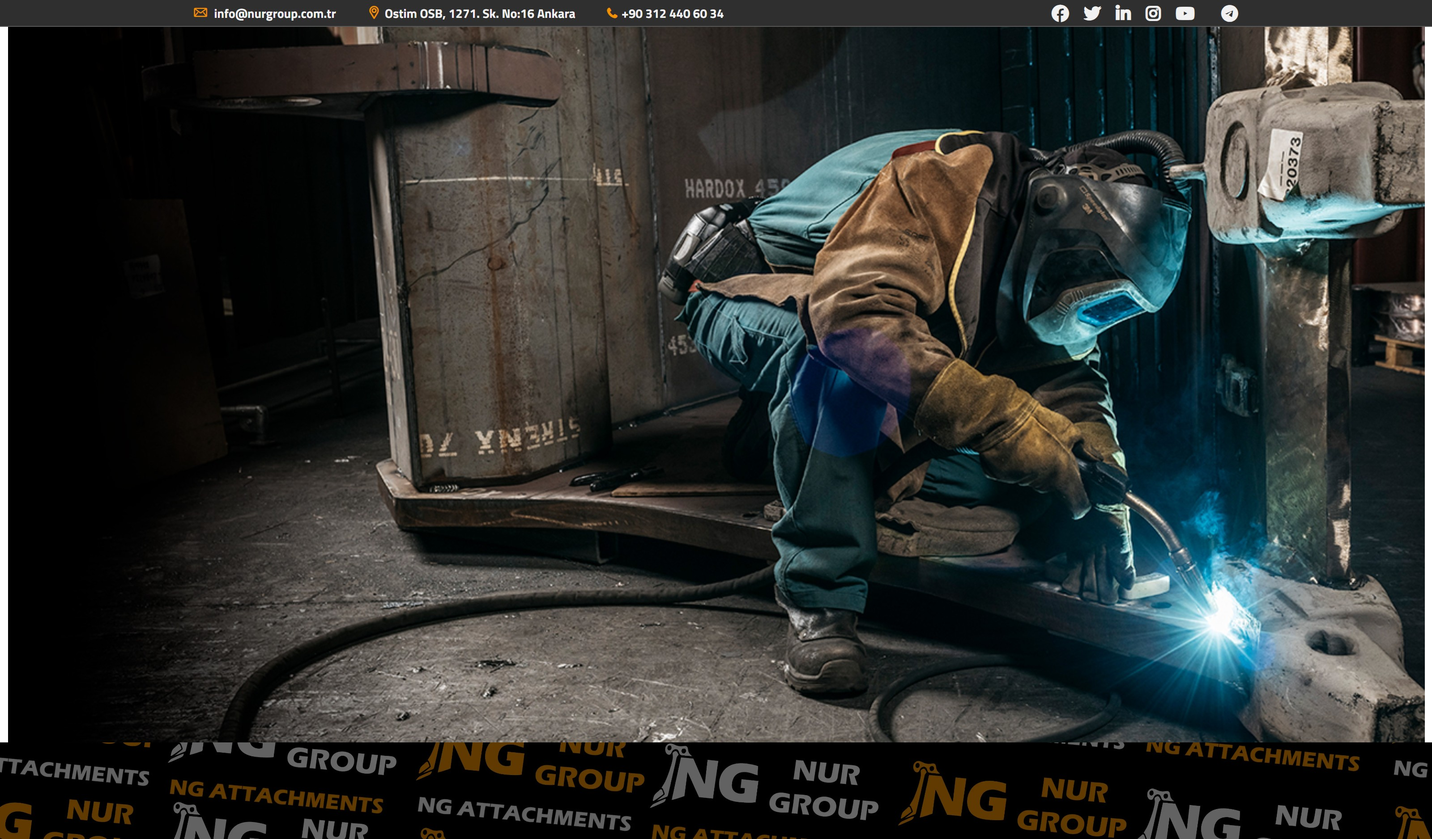
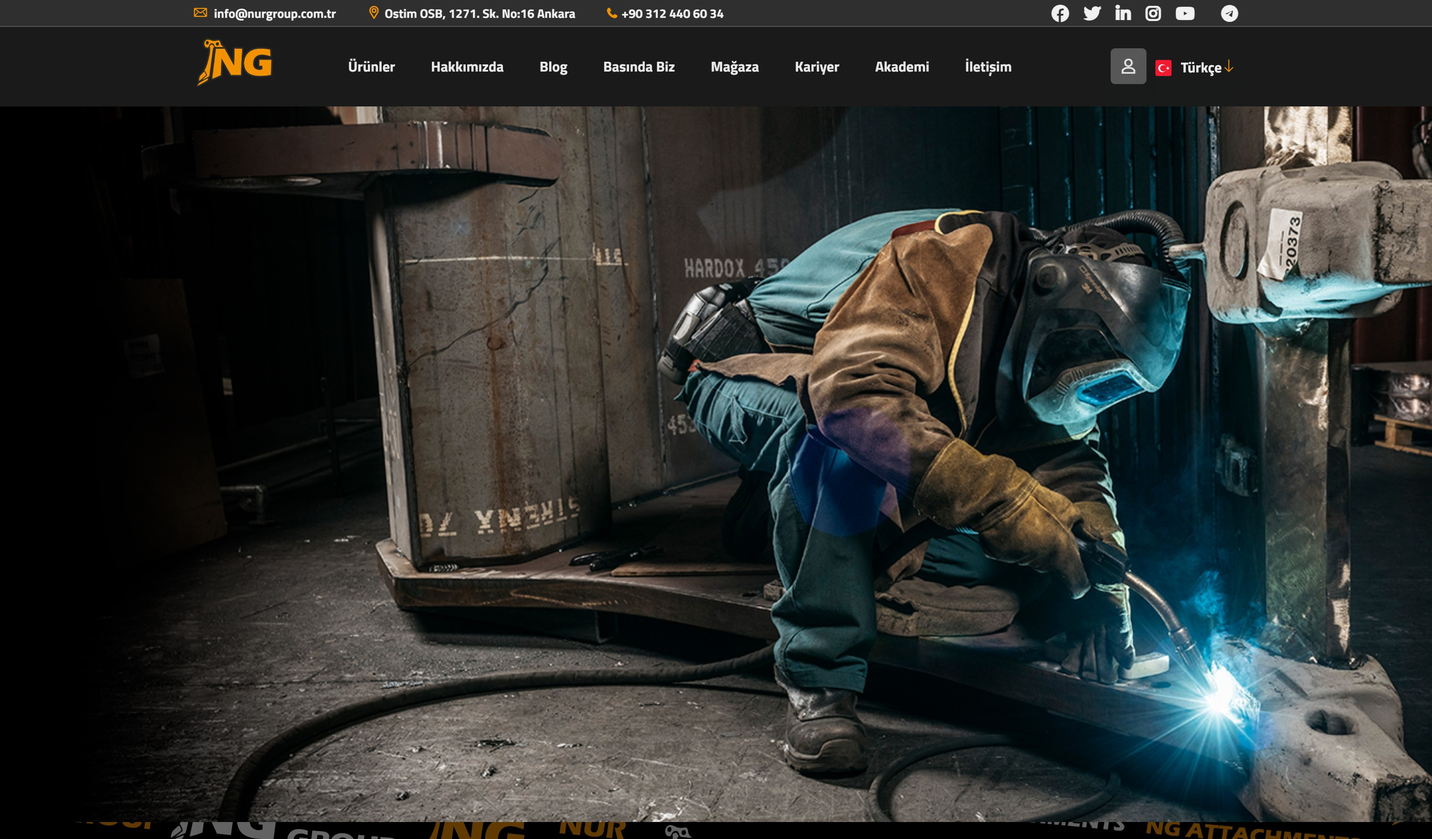
r46-ng-desktoponly: NG header re-capture, drop its phone, highlight i18n
- Re-captured ngequipments.com desktop so the full site HEADER (NG logo +
  nav + the Turkce language selector) shows; the old shot missed it. ?v=2
  cache-busts it. Green WhatsApp float hidden.
- NG is desktop-only now: added a noMobile flag; DevicePair display:none's
  the companion iPhone for it (kept mounted so applyVisual's ref guard
  holds). NG shows just the laptop.
- Rewrote NG's description + stack to emphasize its headline feature: an
  embedded, admin-managed multi-language system where owners can add/edit
  every static AND dynamic text in any language. Chips: Cok Dilli (i18n),
  Yonetici Paneli.

diff --git a/components/projects.ts b/components/projects.ts
@@ -45,6 +45,8 @@ export interface FeaturedProject {
   /** gold-family accent used for the scene glow + placeholder lighting */
   accentColor: string;
   year: string;
+  /** true → hide the companion iPhone for this project (desktop-only vitrine) */
+  noMobile?: boolean;
 }
 
 export const FEATURED_PROJECTS: FeaturedProject[] = [
@@ -117,11 +119,13 @@ export const FEATURED_PROJECTS: FeaturedProject[] = [
     name: "NG Equipments",
     category: "Endüstriyel — İş Makinesi",
     description:
-      "İş makinesi ataşmanları üreten NG Group'un kurumsal sitesi — güçlü sahne görselleri, ürün vitrini ve endüstriyel, güven veren bir marka dili.",
-    // TODO(kağan): stack teyit
-    stack: ["Kurumsal Site", "Katalog", "SEO"],
-    desktopMedia: { type: "image", src: "/assets/projects/ngequipments/desktop.jpg" },
+      "İş makinesi ataşmanları üreten NG Group'un çok dilli kurumsal sitesi. En güçlü yanı: yönetici panelinden yönetilen gömülü dil sistemi — sayfadaki tüm statik ve dinamik metinler, firma sahiplerince istenen her dilde eklenip düzenlenebiliyor.",
+    stack: ["Çok Dilli (i18n)", "Yönetici Paneli", "Kurumsal Site", "SEO"],
+    // ?v=2 → cache-bust the re-capture that now includes the site header
+    desktopMedia: { type: "image", src: "/assets/projects/ngequipments/desktop.jpg?v=2" },
     mobileMedia: { type: "image", src: "/assets/projects/ngequipments/mobile.jpg" },
+    // sadece masaüstü vitrini — mobil (telefon) görünümü gizli
+    noMobile: true,
     liveUrl: "https://ngequipments.com",
     liveEmbed: false,
     accentColor: "#c98f3a",

diff --git a/components/SelectedWork.tsx b/components/SelectedWork.tsx
@@ -108,7 +108,7 @@ function quadMatrix3d(
 /** bumped with every motion-fix round — printed to the console and shown
  *  in the ?swdebug HUD so there is never any doubt WHICH code is running
  *  in the browser being tested */
-const BUILD_TAG = "r45-reorder-10.07";
+const BUILD_TAG = "r46-ng-desktoponly-10.07";
 const pad = (n: number) => String(n + 1).padStart(2, "0");
 const clamp01 = (v: number) => Math.min(1, Math.max(0, v));
 
@@ -215,8 +215,14 @@ function DevicePair({
       ref={refs.pair}
       className={`${styles.pair} ${hiddenAtRest ? styles.pairResting : ""}`}
     >
-      {/* iPhone — companion device; the MacBook is the 3D model behind */}
-      <div ref={refs.phone} className={styles.phoneWrap} data-sw-phone="">
+      {/* iPhone — companion device; the MacBook is the 3D model behind.
+          Kept mounted even when hidden (noMobile) so applyVisual's ref
+          guard stays satisfied; CSS just display:none's it. */}
+      <div
+        ref={refs.phone}
+        className={`${styles.phoneWrap} ${project.noMobile ? styles.phoneHidden : ""}`}
+        data-sw-phone=""
+      >
         <div className={styles.phoneFloat} data-sw-float="phone">
           <div className={styles.phoneScreen}>
             {/* the mobile site fills the whole glass — no status bar */}

diff --git a/components/SelectedWork.module.css b/components/SelectedWork.module.css
@@ -326,6 +326,12 @@
   object-position: top center;
 }
 
+/* desktop-only projects (noMobile): the phone element stays in the DOM so
+   applyVisual's ref guard holds, but it is not shown */
+.phoneHidden {
+  display: none !important;
+}
+
 .frameImg {
   object-fit: contain;
   pointer-events: none;
